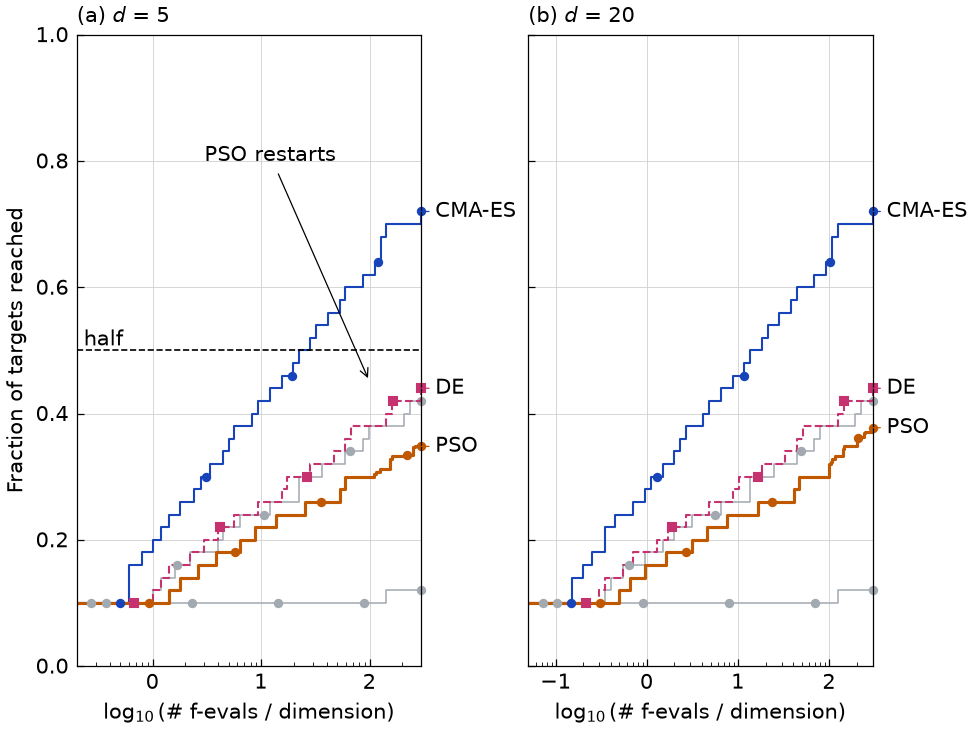
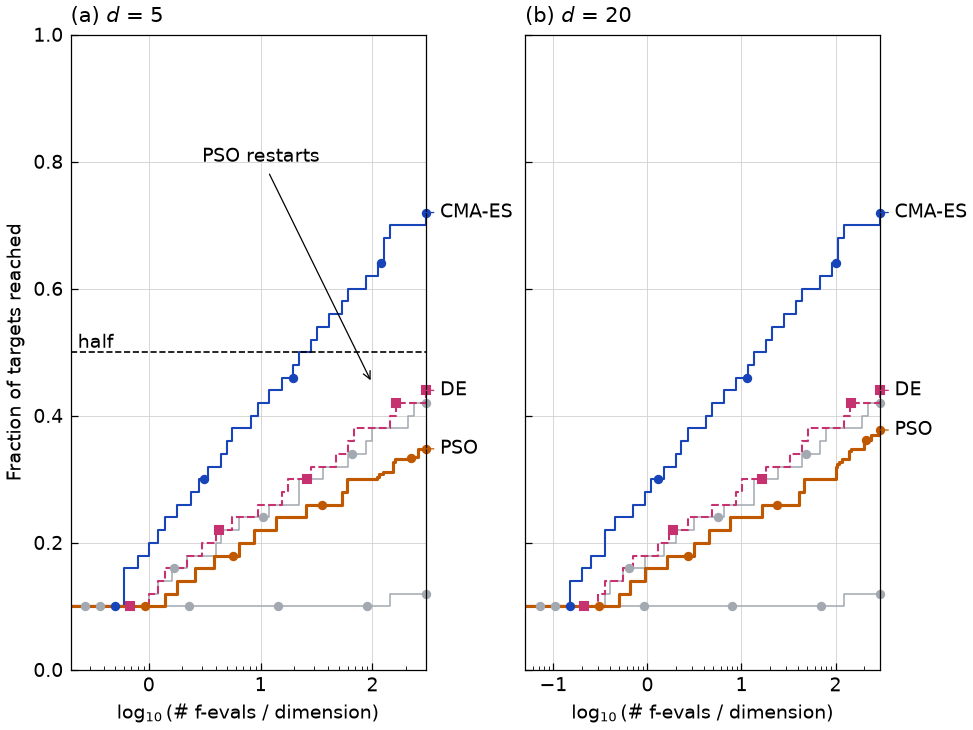
Fix main: figure tests for the 9 pt generic preset
#51 (generic caption 9 pt) and #52 (element model) passed on their own;
together, #52's rc-params test and its ecdf-panels-highlight baseline still
assumed 10 pt. Expect 9 pt and regenerate that one baseline.

diff --git a/tests/test_figures/test_python.py b/tests/test_figures/test_python.py
@@ -76,7 +76,7 @@ def test_the_code_runs_and_saves_the_figure(data, tmp_path, monkeypatch, name):
 
 def test_the_code_carries_the_rc_params_and_the_style_table(data):
     code = to_python(SPECS["panels"], data)
-    assert "mpl.rcParams.update(" in code and "'font.size': 10" in code
+    assert "mpl.rcParams.update(" in code and "'font.size': 9" in code
     assert "'PSO': {'name': 'PSO', 'color': '#c05800'" in code
     assert "'markevery': 4" in code  # every n points
     assert "get_ecdf(" in code and "is_in([1])" in code
